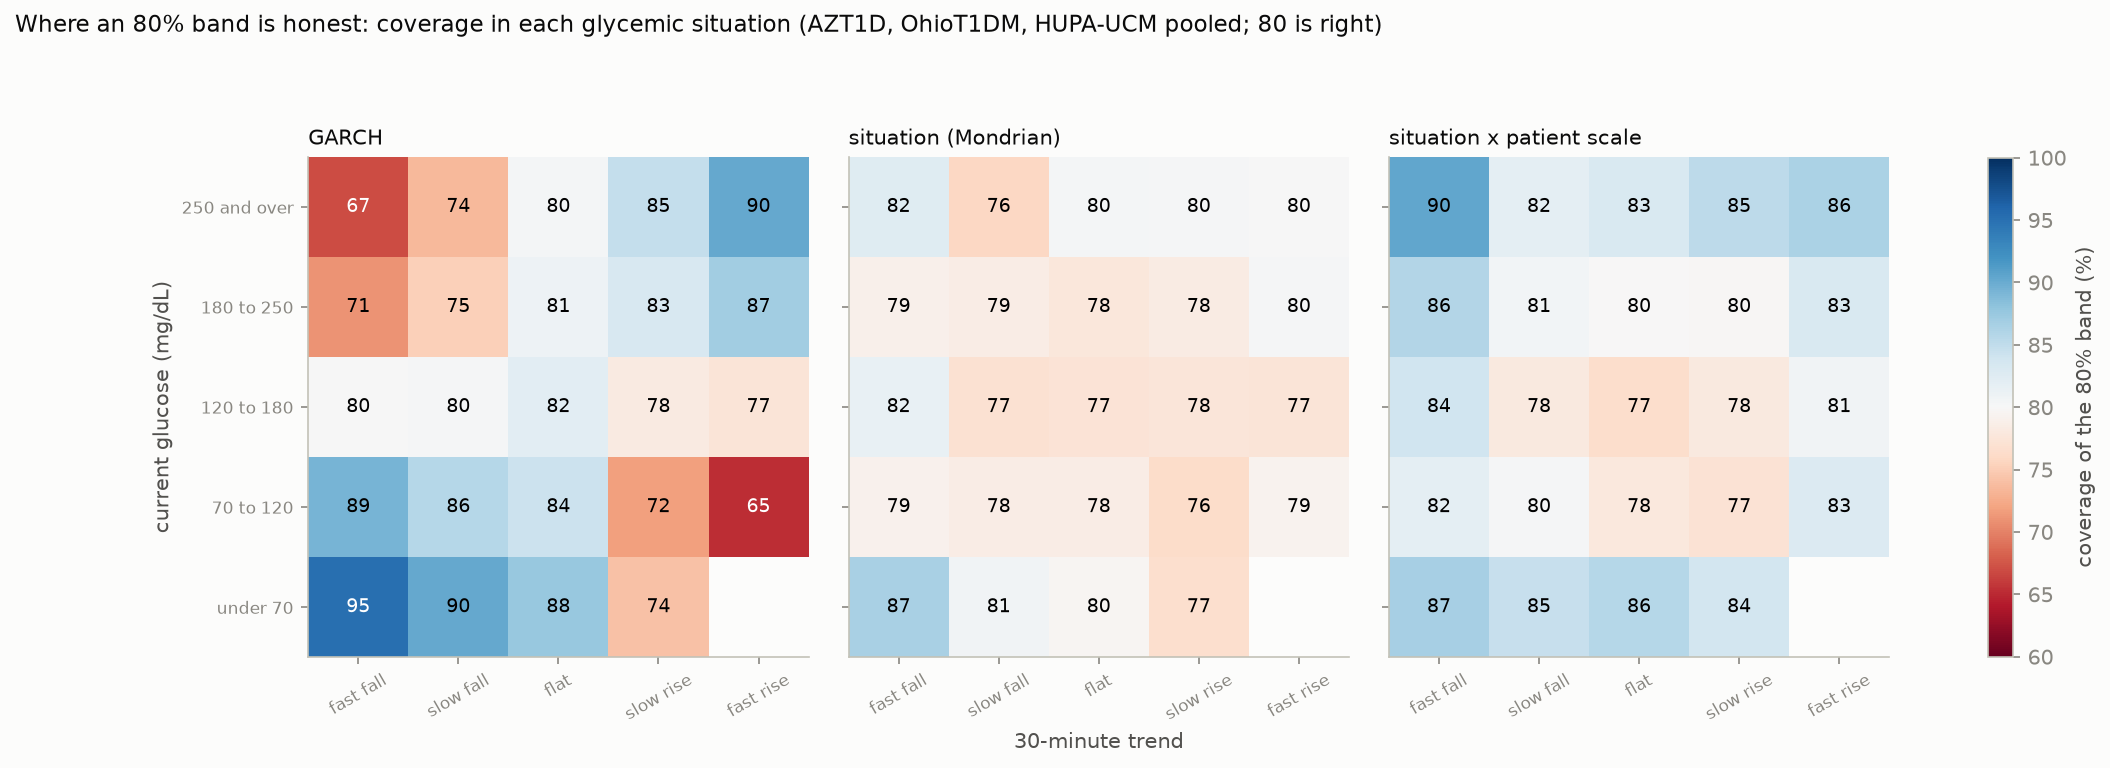
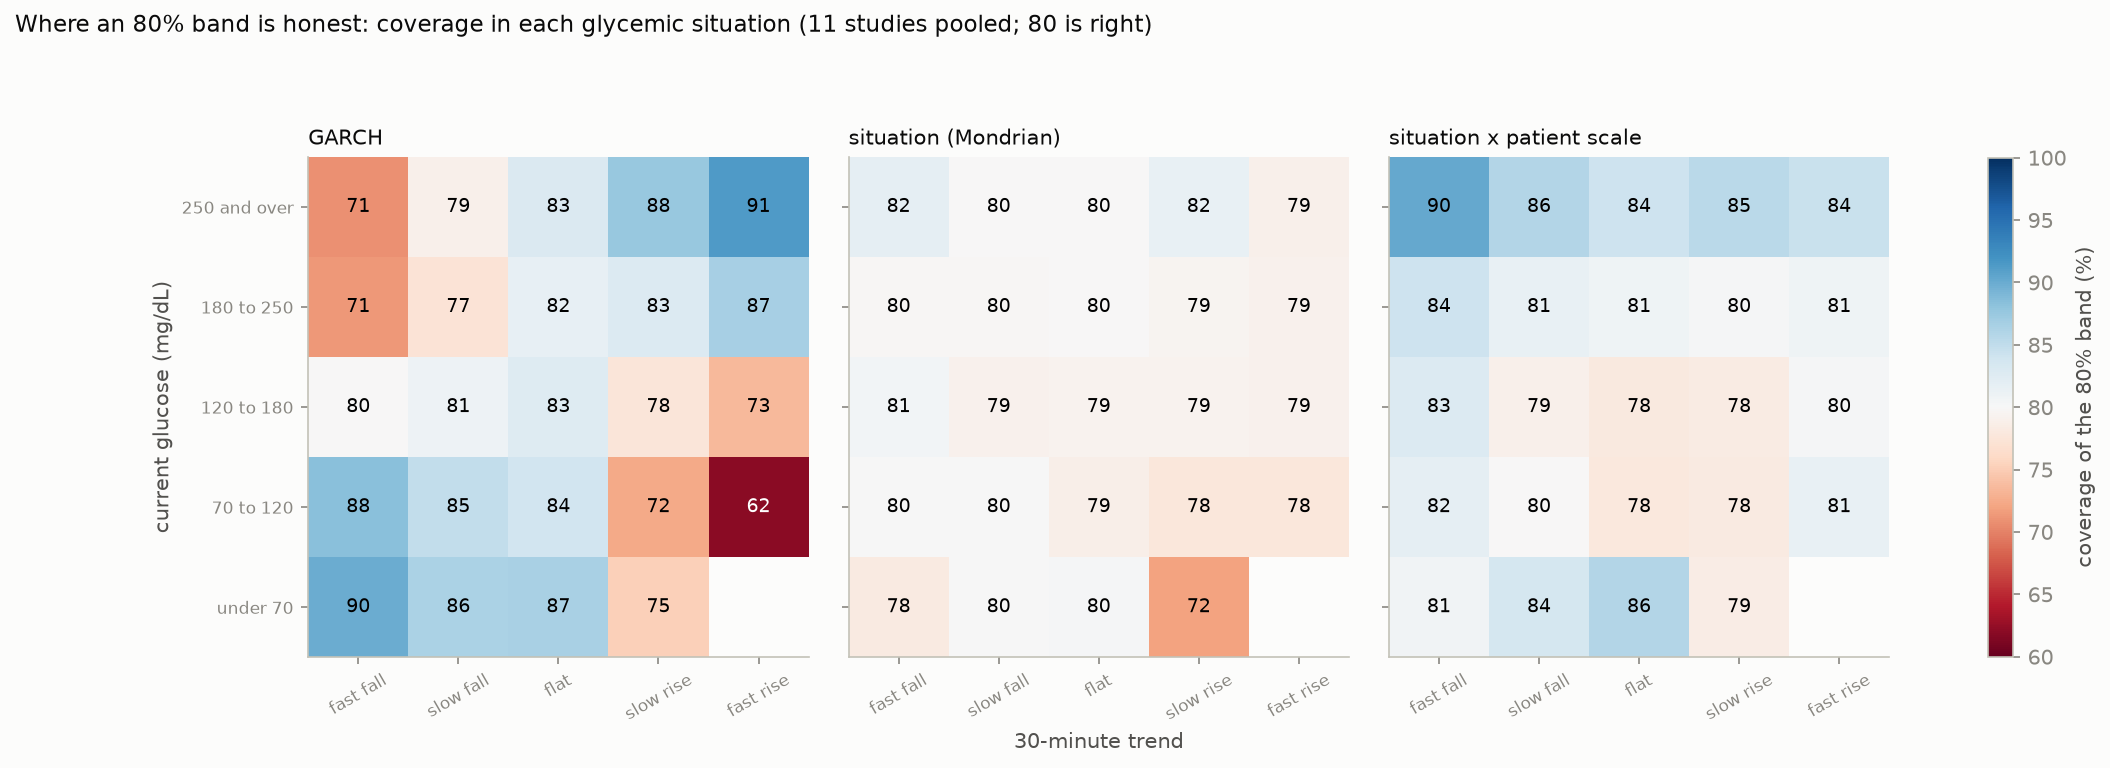
Paper figures over all 11 studies; draft numbers updated

diff --git a/work/12_10/scripts/paper_figures.py b/work/12_10/scripts/paper_figures.py
@@ -25,7 +25,15 @@ sys.path.insert(0, str(ROOT / "src"))
 sys.path.insert(0, str(Path(__file__).resolve().parent))
 
 from azt1d import group_bands as gb, plotting, uq_frames  # noqa: E402
-from round1_patient_vs_situation import LABEL, run_for  # noqa: E402
+from round1_patient_vs_situation import LABEL as _LABEL, run_for  # noqa: E402
+
+
+class _Labels(dict):
+    def get(self, k, d=None):
+        return _LABEL.get(k, k.replace("panel:", ""))
+
+
+LABEL = _Labels()
 
 METHODS = {"GARCH": gb.garch, "situation (Mondrian)": gb.situation_mondrian,
            "situation x patient scale": partial(gb.scale_aci_situation, eta=0.01)}
@@ -76,11 +84,11 @@ def main(datasets):
     axes[0].set_ylabel("current glucose (mg/dL)")
     axes[1].set_xlabel("30-minute trend")
     fig.colorbar(im, ax=axes, shrink=0.8, label="coverage of the 80% band (%)")
-    fig.suptitle(f"Where an 80% band is honest: coverage in each glycemic situation ({', '.join(LABEL.get(d, d) for d in datasets)} pooled; 80 is right)",
+    fig.suptitle(f"Where an 80% band is honest: coverage in each glycemic situation ({len(datasets)} studies pooled; 80 is right)",
                  x=0.01, ha="left", fontsize=11)
     fig.savefig(WEEK / "figures" / "paper_fig1_situation_coverage.png", dpi=150, bbox_inches="tight"); plt.close(fig)
 
-    fig, axes = plt.subplots(1, 3, figsize=(17, 4.8))
+    fig, axes = plt.subplots(1, 3, figsize=(max(17, 1.6 * len(datasets) * 1.0 + 6), 4.8))
     x = np.arange(len(datasets))
     for k, m in enumerate(METHODS):
         d = A[A.method == m].set_index("dataset").loc[datasets]

diff --git a/work/12_10/docs/paper_draft.md b/work/12_10/docs/paper_draft.md
@@ -12,7 +12,7 @@ Working draft, updated Oct 17, 2026. Built from `work/FINDINGS.md`; every number
 - Evaluation: a new circular-shift noise floor that separates real conditional miscalibration from the sampling noise of autocorrelated forecast windows.
 
 **Results.**
-- **Situation.** Standard intervals were miscalibrated across 25 glycemic situations (level by 30-minute trend). Pooled coverage of nominal 80% GARCH intervals ranged from 65% (70-120 mg/dL, rising fast) to 95% (below 70, falling fast). Situation-conditional conformal calibration reduced per-situation miscalibration in all 8 external studies (2.3-4.2 vs 5.5-6.8 points), down to the noise floor.
+- **Situation.** Standard intervals were miscalibrated across 25 glycemic situations (level by 30-minute trend). Pooled over all 11 studies, coverage of nominal 80% GARCH intervals ranged from 62% (70-120 mg/dL, rising fast) to 91% (250 mg/dL and over, rising fast). Situation-conditional conformal calibration reduced per-situation miscalibration in all 8 external studies (2.3-4.2 vs 5.5-6.8 points), down to the noise floor.
 - **Patient.** Real miscalibration remained between patients. An online per-patient scale, updated from errors observed one horizon later, removed it in every development dataset and every external study. It also sharpened intervals, and it needed no calibration data from the new patient.
 - **Day.** Adaptive intervals halved the day-to-day spread of coverage.
 - **Error size.** It was largely unpredictable: at most 20% of its variation was explained, even by gradient boosting with rich context. Recent errors carried little information, contrary to the volatility-clustering premise of GARCH-type intervals.
@@ -95,7 +95,7 @@ Working draft, updated Oct 17, 2026. Built from `work/FINDINGS.md`; every number
 ## 5. Results
 
 ### 5.1 Standard intervals are miscalibrated by situation; situation calibration fixes it (F1, tier 3)
-- Pooled over the development datasets, GARCH coverage of a nominal 80% band ranged from 65% (70-120, fast rise) to 95% (<70, fast fall). Situation calibration brought every situation to 76-87% (Figure 1).
+- Pooled over all 11 studies, GARCH coverage of a nominal 80% band ranged from 62% (70-120, fast rise) to 91% (>=250, fast rise). Situation calibration held every situation between 72% and 82%, and 23 of 24 between 78% and 82% (Figure 1). (Development datasets only: GARCH 65-95%, situation 76-87%.)
 - External: per-situation distance from 80% fell in all 8 held-out studies, from 5.5-6.8 to 2.3-4.2 points (H54).
 - Also holds at 90% nominal (H76), at a 30-minute horizon (H71), and for a CNN-Transformer (H69).
 
@@ -113,6 +113,15 @@ Working draft, updated Oct 17, 2026. Built from `work/FINDINGS.md`; every number
 
 ### 5.4 The new patient needs no calibration data of their own (F15)
 - With situation quantiles from other patients only, the online scale gives per-patient excess -0.87, -0.89, 0.49 vs -0.88, -0.91, 0.43 for own-data calibration (H70). The forecaster was still per patient.
+
+### 5.4b Summary over all 11 studies (Figure 2; medians, points)
+| Method | Situation excess above floor | Patient excess above floor | SD of daily coverage |
+|---|---|---|---|
+| GARCH | 3.8 | 1.7 | 6.0 |
+| Situation (Mondrian) | 0.7 | 3.2 | 9.3 |
+| Situation x patient scale | 1.8 | -0.7 | 5.5 |
+
+Source: `work/12_10/results/paper_three_axes.csv`.
 
 ### 5.5 Honesty by day (F16)
 - Static situation bands cover some days far less than others (SD of daily coverage 10.3, 9.3, 12.4 points). Adaptive bands halve this (patient scale 5.5, 5.9, 6.7; H72).
@@ -155,8 +164,8 @@ Working draft, updated Oct 17, 2026. Built from `work/FINDINGS.md`; every number
 
 ## 7. Figures
 
-1. Coverage in each of 25 situations: GARCH, situation, situation x patient scale (`figures/paper_fig1_situation_coverage.png`).
-2. Three axes of honesty, by situation, by patient, by day (`figures/paper_fig2_three_axes.png`; to be extended to all 11 studies).
+1. Coverage in each of 25 situations, 11 studies pooled: GARCH, situation, situation x patient scale (`figures/paper_fig1_situation_coverage.png`).
+2. Three axes of honesty, by situation, by patient, by day, all 11 studies (`figures/paper_fig2_three_axes.png`).
 3. Noise floor vs observed unevenness (`figures/h51_noise_floor.png`).
 4. External validation (`figures/h54_panel_external.png`).
 5. Error-size predictability and drivers (`figures/h61_h62_ml_error_size.png`).
